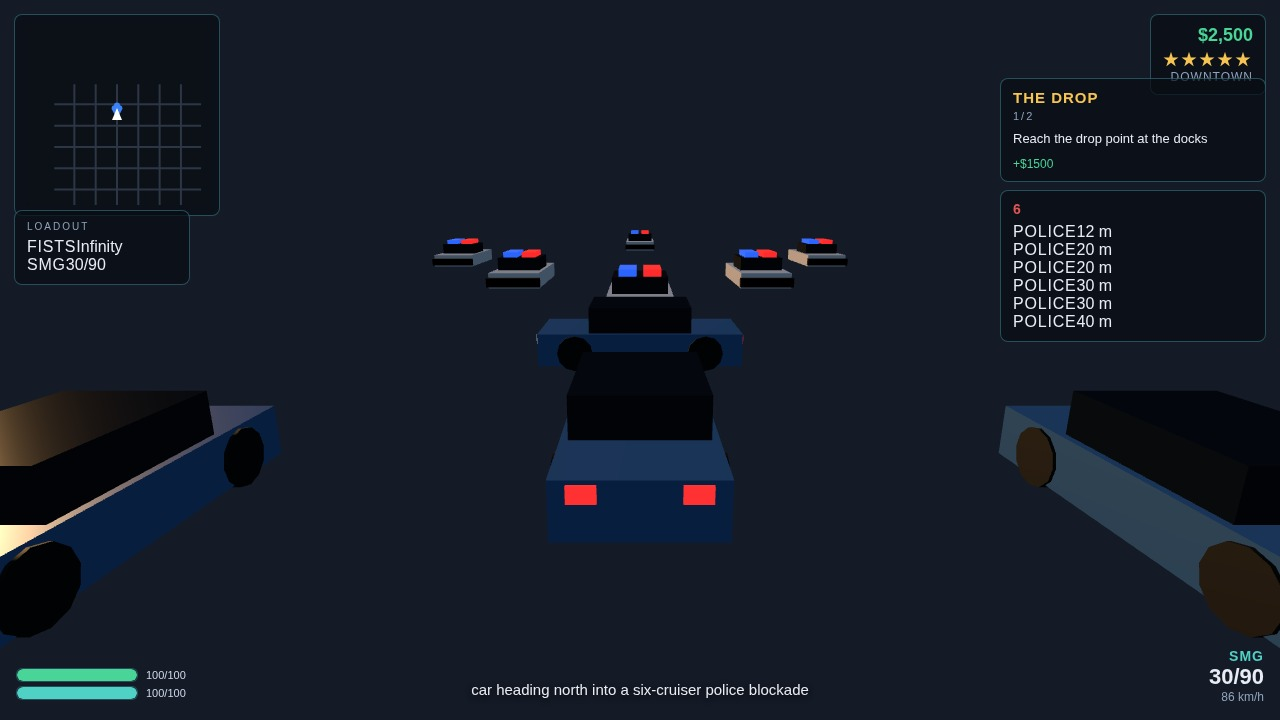
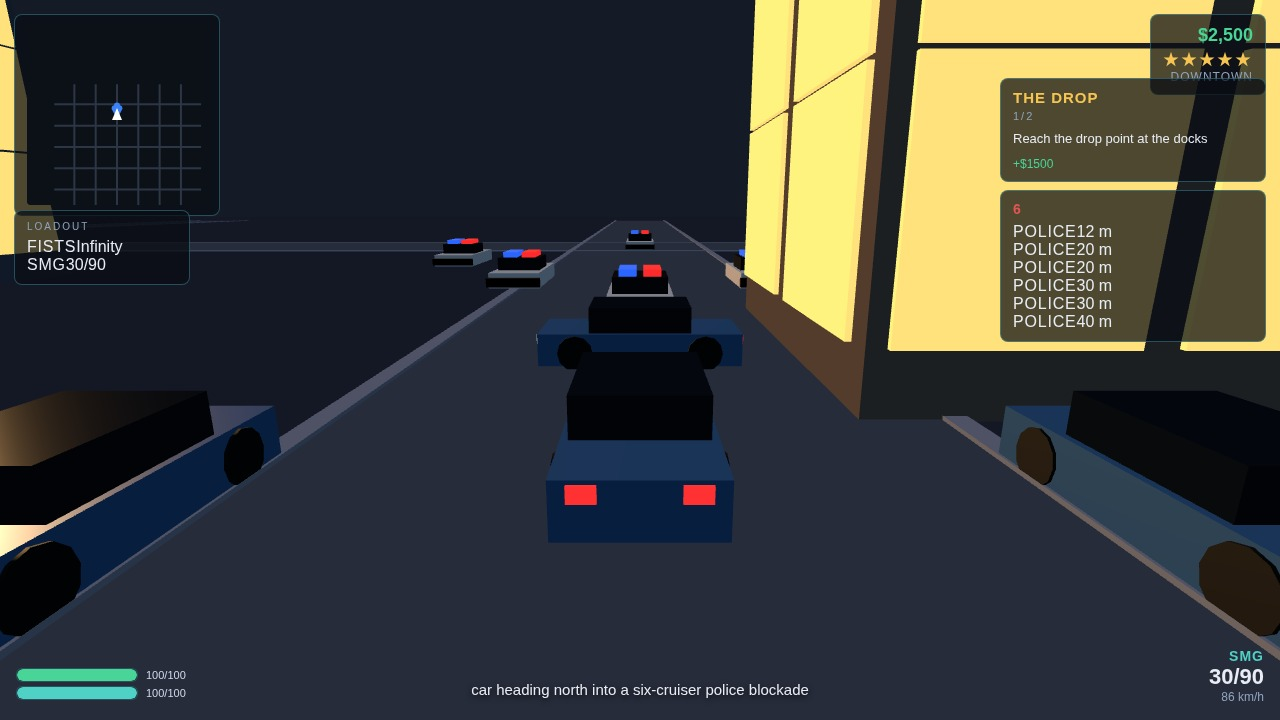
Give the windows gaps and the minimap its police blips

diff --git a/game/src/city.js b/game/src/city.js
@@ -30,7 +30,7 @@ export function createCity(scene, options = {}) {
   const matSand = new THREE.MeshLambertMaterial({ color: 0xd9c49a });
   const matWater = new THREE.MeshLambertMaterial({ color: 0x1d4a63 });
   const facadeMats = [0x4a4f5e, 0x5a5148, 0x3f4657, 0x6a5d52].map(c => new THREE.MeshLambertMaterial({ color: c }));
-  const matWindow = new THREE.MeshStandardMaterial({ color: 0xffb15e, emissive: 0xffb15e, emissiveIntensity: 1.6 });
+  const matWindow = new THREE.MeshStandardMaterial({ color: 0xffb15e, emissive: 0xffb15e, emissiveIntensity: 0.85 });
   const matLamp = new THREE.MeshLambertMaterial({ color: 0x7c8496 });
   const matLampGlow = new THREE.MeshStandardMaterial({ color: 0xffcf8a, emissive: 0xffb15e, emissiveIntensity: 2.2 });
   const matTrunk = new THREE.MeshLambertMaterial({ color: 0x7a5c3c });
@@ -91,13 +91,13 @@ export function createCity(scene, options = {}) {
     const rows = Math.max(2, Math.min(8, Math.round(h / 5)));
     const colsW = Math.max(1, Math.min(6, Math.round(w / 5)));
     const colsD = Math.max(1, Math.min(6, Math.round(d / 5)));
-    const winH = Math.max(0.6, (h - 3) / rows);
     const winD = 0.12;
     const step = (h - 2.4) / rows;
+    const winH = 0.5 * step;
     for (let r = 0; r < rows; r++) {
       const y = 1.2 + (r + 0.5) * step;
-      const winWx = Math.max(0.5, (w - 2) / colsW);
-      const winWz = Math.max(0.5, (d - 2) / colsD);
+      const winWx = 0.55 * (w / colsW);
+      const winWz = 0.55 * (d / colsD);
       for (let c = 0; c < colsW; c++) {
         const x = bx - w / 2 + (c + 0.5) * (w / colsW);
         windowInstances.push({ p: [x, y, bz + d / 2 + winD], ry: 0, s: [winWx, winH, winD] });

diff --git a/game/src/main.js b/game/src/main.js
@@ -457,9 +457,33 @@ export class Game {
 
   buildMinimapState() {
     const p = this.player;
+    const resolveUnit = (u) => {
+      if (!u) return null;
+      let x;
+      let z;
+      if (u.position && typeof u.position.x === 'number' && typeof u.position.z === 'number') {
+        x = u.position.x;
+        z = u.position.z;
+      } else if (
+        u.mesh && u.mesh.position &&
+        typeof u.mesh.position.x === 'number' && typeof u.mesh.position.z === 'number'
+      ) {
+        x = u.mesh.position.x;
+        z = u.mesh.position.z;
+      } else if (typeof u.x === 'number' && typeof u.z === 'number') {
+        x = u.x;
+        z = u.z;
+      } else {
+        return null;
+      }
+      if (!Number.isFinite(x) || !Number.isFinite(z)) return null;
+      return { x, z };
+    };
     return {
       roads: this.buildRoadSegments(),
-      police: (this.police.units || []).map((u) => ({ x: u.position.x, z: u.position.z })),
+      police: (this.police.units || [])
+        .map(resolveUnit)
+        .filter((blip) => blip !== null),
       waypoint: this.getWaypoint(),
       player: { x: p.position.x, z: p.position.z },
       range: 760,
